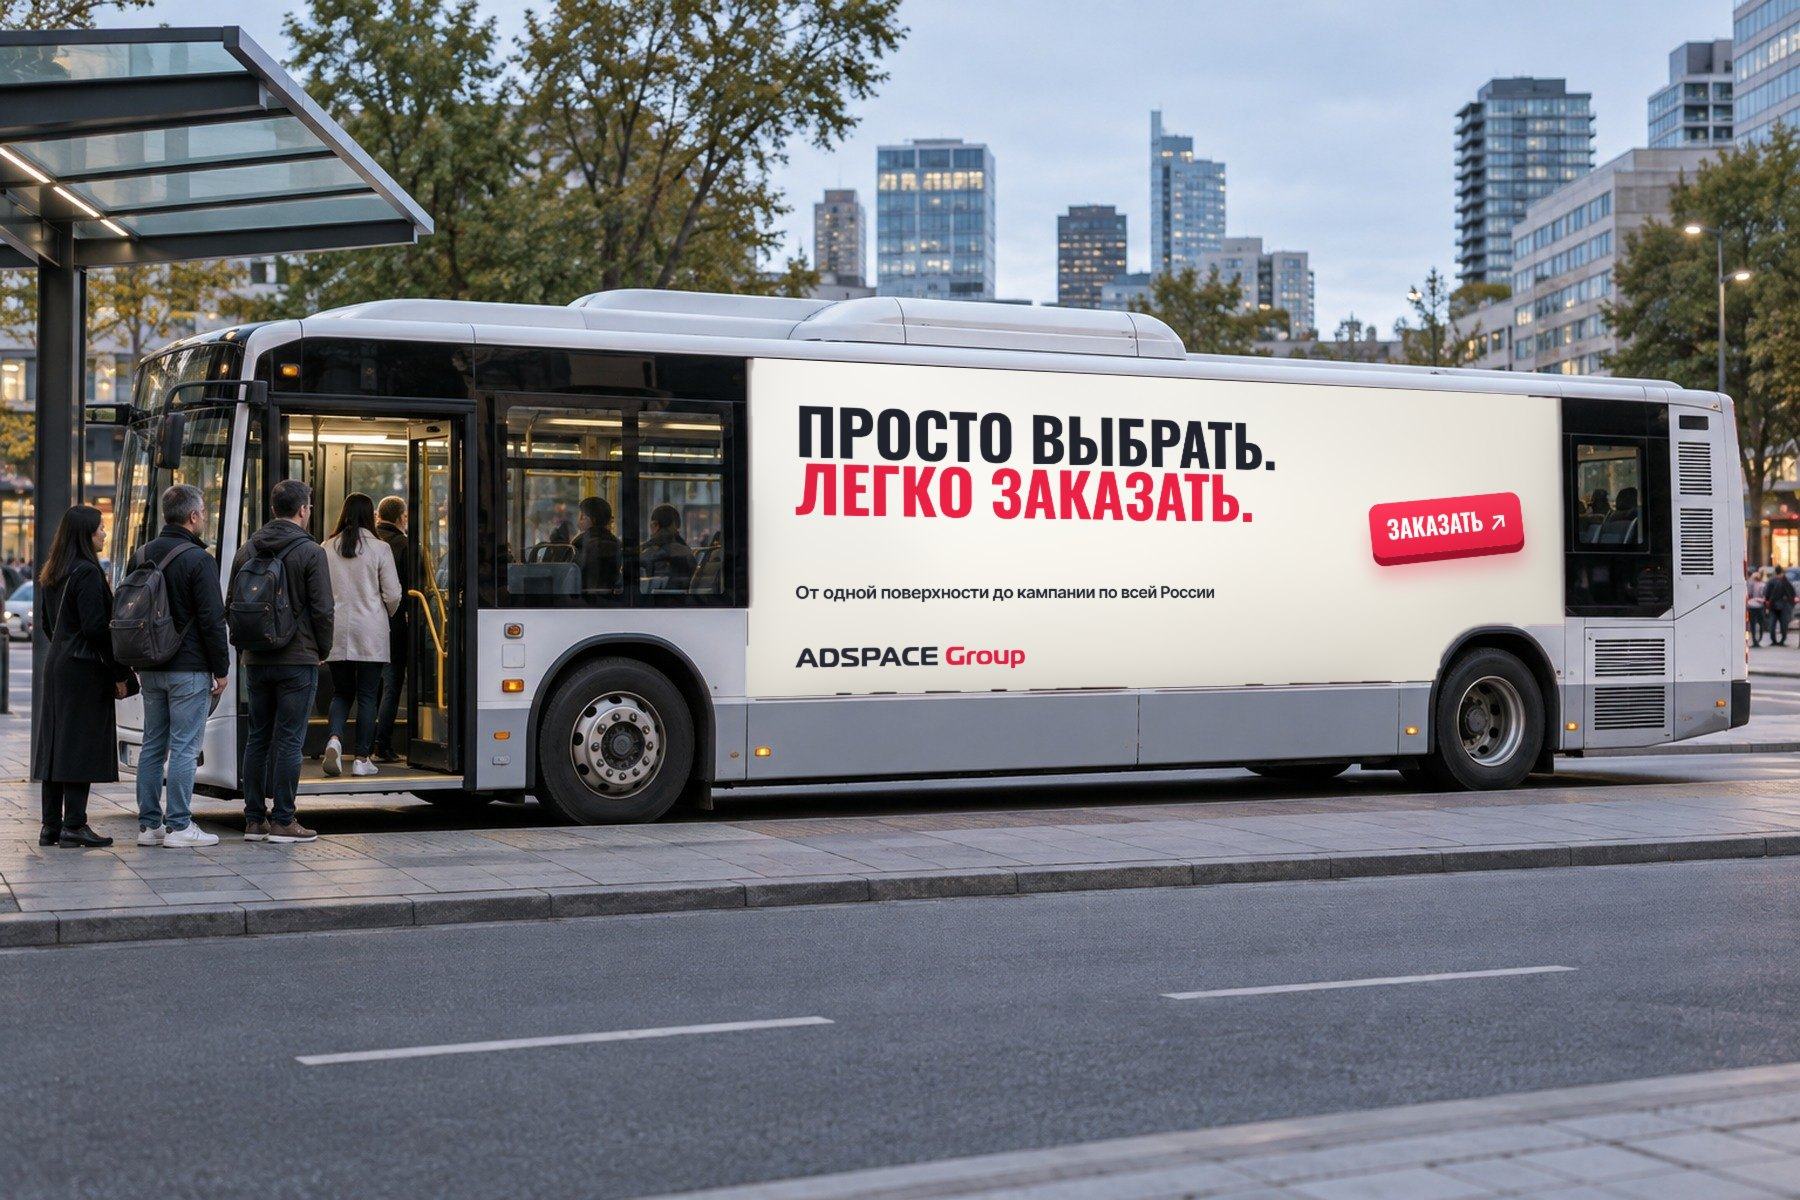
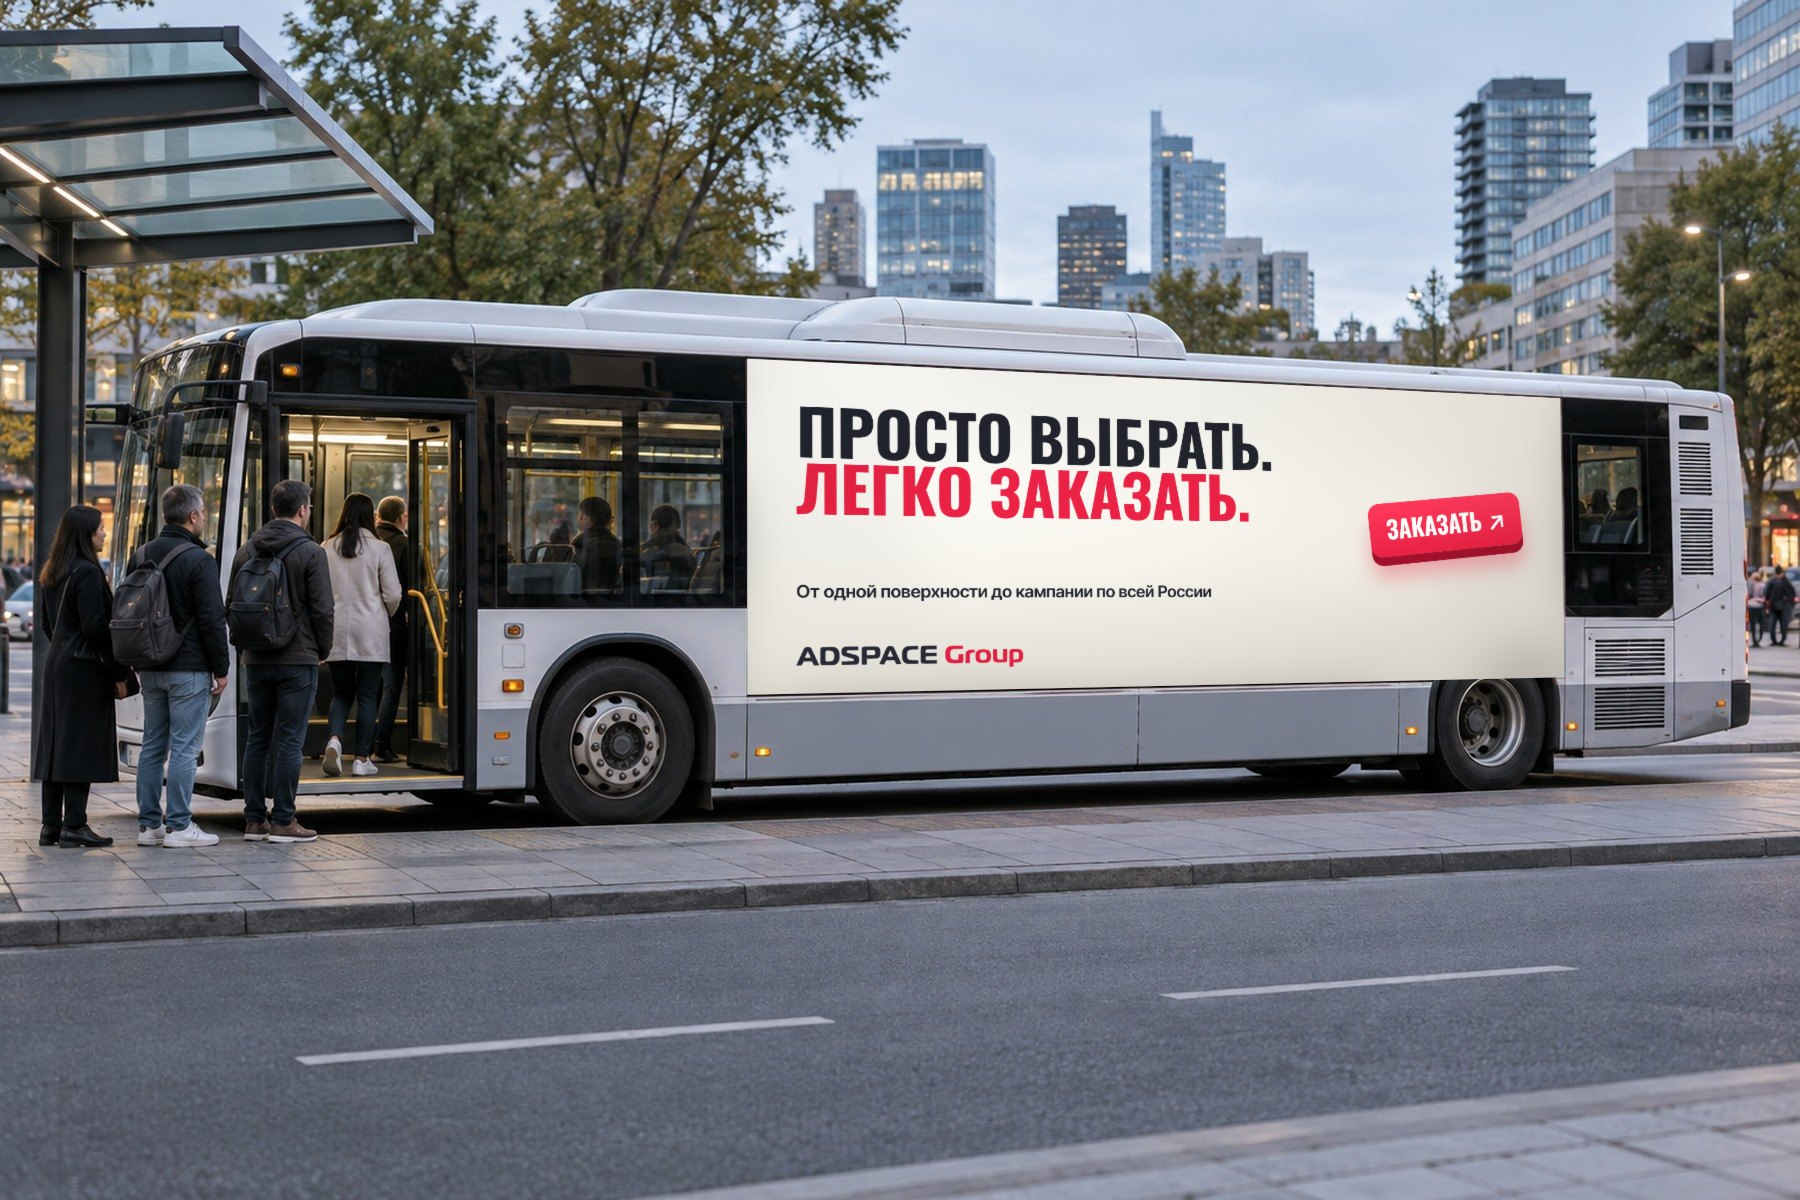
design: лифт — креатив от верхней рамки без полоски; автобус — низ по краю постера
Claude-Session: https://claude.ai/code/session_01CFMEvSXYkXRcRwr9i8XWTo

diff --git a/design/tools/creatives/comp_all.py b/design/tools/creatives/comp_all.py
@@ -37,7 +37,7 @@ for f,(cpath,p) in meta.items():
     warped=cv2.warpPerspective(cr,M,(w,h),flags=cv2.INTER_AREA,borderMode=cv2.BORDER_REPLICATE)
     S=4; mbig=np.zeros((h*S,w*S),np.uint8); cv2.fillPoly(mbig,[(p*S).astype(np.int32)],255,lineType=cv2.LINE_AA)
     mask=cv2.resize(mbig,(w,h),interpolation=cv2.INTER_AREA).astype(np.float32)/255
-    if f in ('promo-transit.jpg',):
+    if False:
         # постер не прямоугольный (арка колеса) — режем по форме исходного постера
         u8=(im*255).astype(np.uint8); hsv=cv2.cvtColor(u8,cv2.COLOR_BGR2HSV); lab=cv2.cvtColor(u8,cv2.COLOR_BGR2LAB).astype(np.float32)
         qm=np.zeros((h,w),np.uint8); cv2.fillPoly(qm,[p.astype(np.int32)],1)
